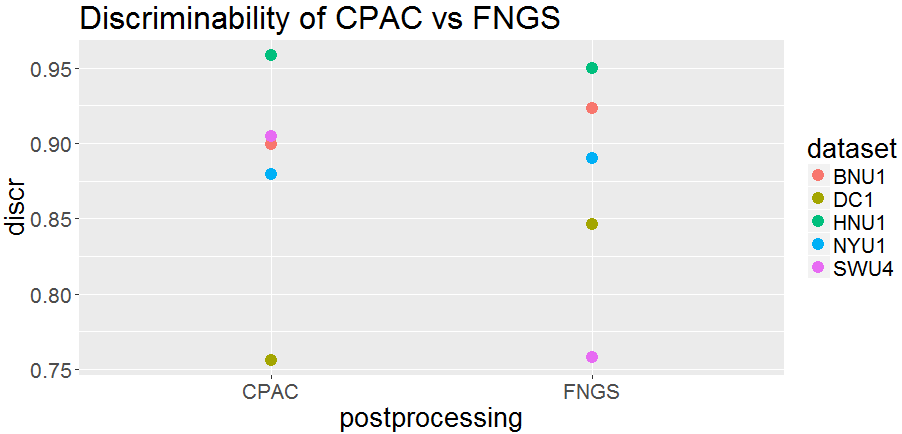
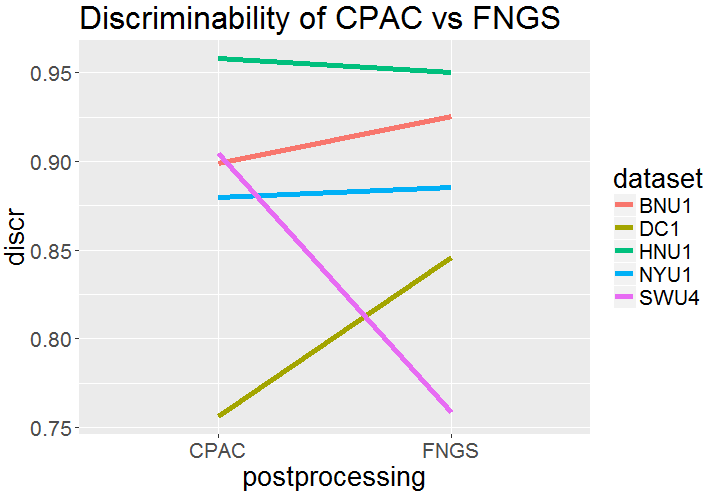
updated presentation to latest changes

diff --git a/docs/ebridge2/fngs_merge/week_0525/fngs_final.html b/docs/ebridge2/fngs_merge/week_0525/fngs_final.html
@@ -55,7 +55,7 @@
 				</section>
 				<section>
 					<section>
-						<h3>Summary of Steps</h3>
+						<h3>Summary of Methods</h3>
 						<table>
 							<thead>
 								<tr>
@@ -69,8 +69,8 @@
 								<tr>
 									<td>MC</td>
 									<td>mcflirt$^*$</td>
-									<td>3dvolreg$^\dagger$</td>
-									<td>mcflirt$^\dagger$; ANTs-l$^\dagger$</td>
+									<td>Opt/3dvolreg$^\dagger$</td>
+									<td>mcflirt$^\dagger$</td>
 								</tr>
 								<tr>
 									<td>STC</td>
@@ -81,35 +81,97 @@
 								<tr>
 									<td>segment</td>
 									<td>FAST$^*$</td>
-									<td>FAST$^*$</td>
+									<td>Opt/FAST$^*$</td>
 									<td>freesurfer$^\dagger$</td>
 								</tr>
 								<tr>
 									<td>sreg</td>
-									<td>epireg$^*$</td>
-									<td>FLIRT-bbr$^\dagger$</td>
+									<td>epireg$^\dagger$</td>
+									<td>Opt/FLIRT-bbr$^\dagger$</td>
 									<td>FLIRT-bbr$^\dagger$</td>
 								</tr>
 								<tr>
 									<td>treg</td>
-									<td>FNIRT$^*$</td>
-									<td>FNIRT$^*$</td>
+									<td>FNIRT$^\dagger$</td>
+									<td>Opt/FNIRT$^\dagger$</td>
 									<td>ANTs-n$^\dagger$</td>
-								</tr>
-								<tr>
-									<td>nuis</td>
-									<td>quad, CSFm, HP</td>
-									<td>quad, CSFm, aCC</td>
-									<td>-</td>
 								</tr>
 							</tbody>
 						</table>
+					</section>
+
+					<section>
+						<h3>FNGS Performs Preprocessing using FSL Default Parameters</h3>
+						<ul>
+							<li>mcflirt: align slices to 0 volume, FSL default</li>
+							<li>slicetimer: slice-time correct according to the given acquisition sequence or metadata</li>
+							<li>Justification to use 0 volume: subject less likely to be moving right as scanning begin</li>
+							<ul>
+								<li>if using a mean volume or later volume and there is a lot of motion, alignment template will be blurred</li>
+							</ul>
+						</ul>
+					</section>
+
+					<section>
+						<h3><a href="https://github.com/NeuroDataDesign/fngs/blob/master/docs/ebridge2/fngs_merge/week_0602/mc_cmp.ipynb">FNGS effectively aligns 4D functional volume with itself</a></h3>
+						<ul>
+							<li>Jaccard Index for CPAC and FNGS between pairs of slices</li>
+							<li>How well does brain align with itself?</li>
+						</ul>
+						<img src="./img/mc_quant.png" width="50%"/>
+					</section>
+
+					<section>
+						<h3>FNGS Registers using default EPIreg with better initialization</h3>
+						<ul>
+							<li>use default epireg script</li>
+							<li>default epireg script initializes with a single 6 DOF affine transformation</li>
+							<li>going head on with a 6 DOF transform can be problematic if the brains are not initially close</li>
+							<li>solution: use gentle translation FLIRT to align x, y, z, then local optimization FLIRT to get local features close (default FLIRT schedule files)</li>
+							<li>Once local features are close, use epireg</li>
+						</ul>
+					</section>
+
+					<section>
+						<h3><a href="https://github.com/NeuroDataDesign/fngs/blob/master/docs/ebridge2/fngs_merge/week_0602/reg_cmp.ipynb">FNGS effectively aligns functional and anatomical images</a></h3>
+						<ul>
+							<li>Jaccard Index for CPAC and FNGS between s0 functional and anatomical template</li>
+							<li>FNGS: $.86$ CPAC: $.86$</li>
+						</ul>
+						<img src="./img/fngs_reg.png" width="40%"/>
+						<img src="./img/cpac_reg.png" width="40%"/>
+					</section>
+
+					<section>
+						<h3>FNGS Uses Easily qualified Nuisance Correction</h3>
+						<ul>
+							<li>quadratic detrend, CSF mean signal, highpass-filtered (all are options from CPAC)</li>
+							<li>Avoid CompCor: hard to know exactly what it is doing on a per-subject basis</li>
+							<ul>
+								<li>some people use tCompCor (ANTs, Neuroconductor), others use aCompCor (CPAC)</li>
+								<li>many hyperparams</li>
+								<li>Need to extensively investigate before wholesomely including or excluding, as it has a PROFOUND impact on the resulting signal</li>
+							</ul>
+						</ul>
+					</section>
+
+					<section>
+						<h3><a href="https://github.com/NeuroDataDesign/fngs/blob/master/docs/ebridge2/fngs_merge/week_0602/timeseries.ipynb">aCompCor de-correlates fMRI timeseries</a></h3>
+						<ul>
+							<li>aCompCor <a href="https://arxiv.org/pdf/1608.03616.pdf">performs similar</a> to Global Signal Regression in that it impacts the overall correlations</li>
+						</ul>
+						<img src="./img/fngs_corr.png" width="40%"/>
+						<img src="./img/cpac_corr.png" width="40%"/>
+					</section>
+					<section>
+						<h3>FNGS Achieves competitive discriminability scores to CPAC</h3>
+						<img src="./img/cpac_vs_fngs.png" width="60%"/>
 					</section>
 				</section>
 
 				<section>
 					<section>
-						<h3>Performance Comparison</h3>
+						<h3>Performance Comparison (average of 5 subs, except for fmriprep)</h3>
 						<table>
 							<thead>
 								<tr>
@@ -158,6 +220,13 @@
 								</tr>
 							</tbody>
 						</table>
+					</section>
+
+					<section>
+						<h3>Eric provides graphs/qa for greg to have fun with</h3>
+						<ul>
+							<li>cortex.jhu.edu:/braindrive/backups/datasets/BNU_1/ outputs_epi_fnirt/connectomes</li>
+						</ul>
 					</section>
 				</section>
 
